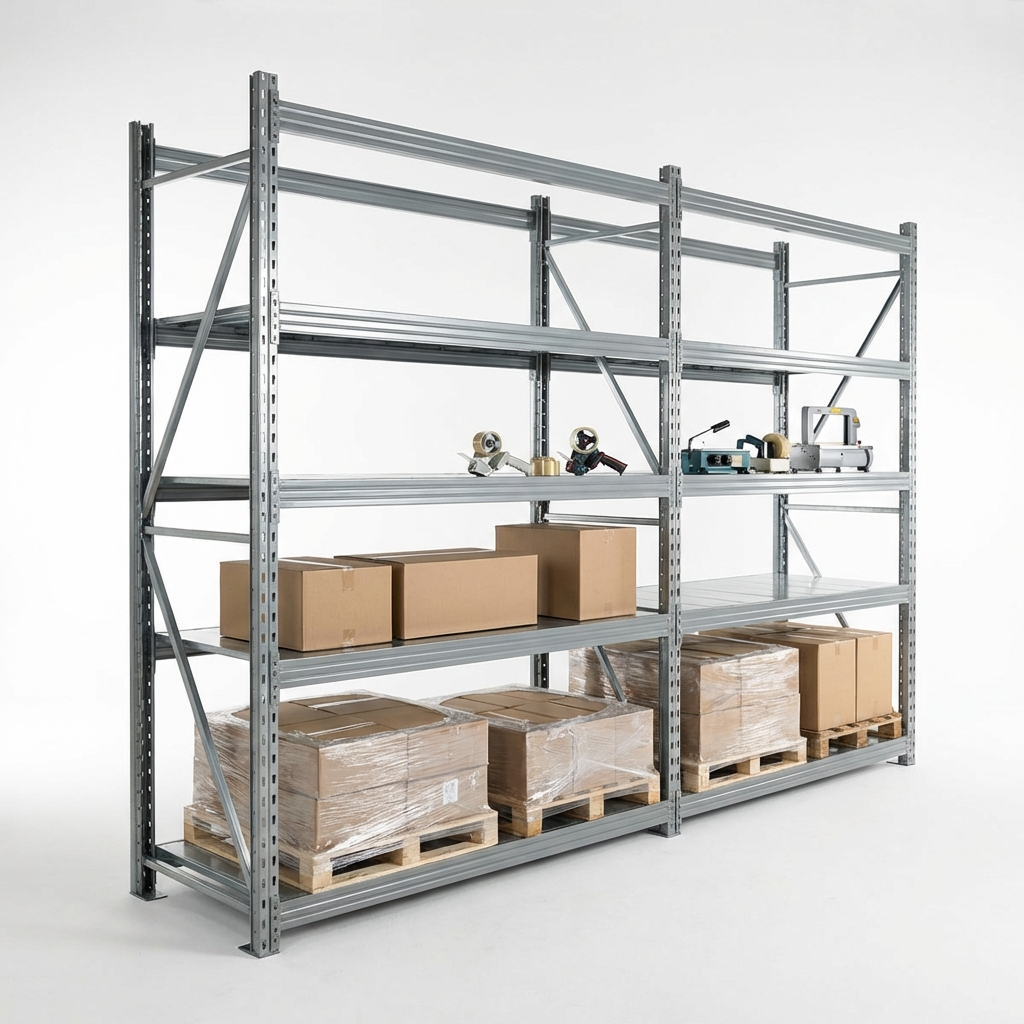
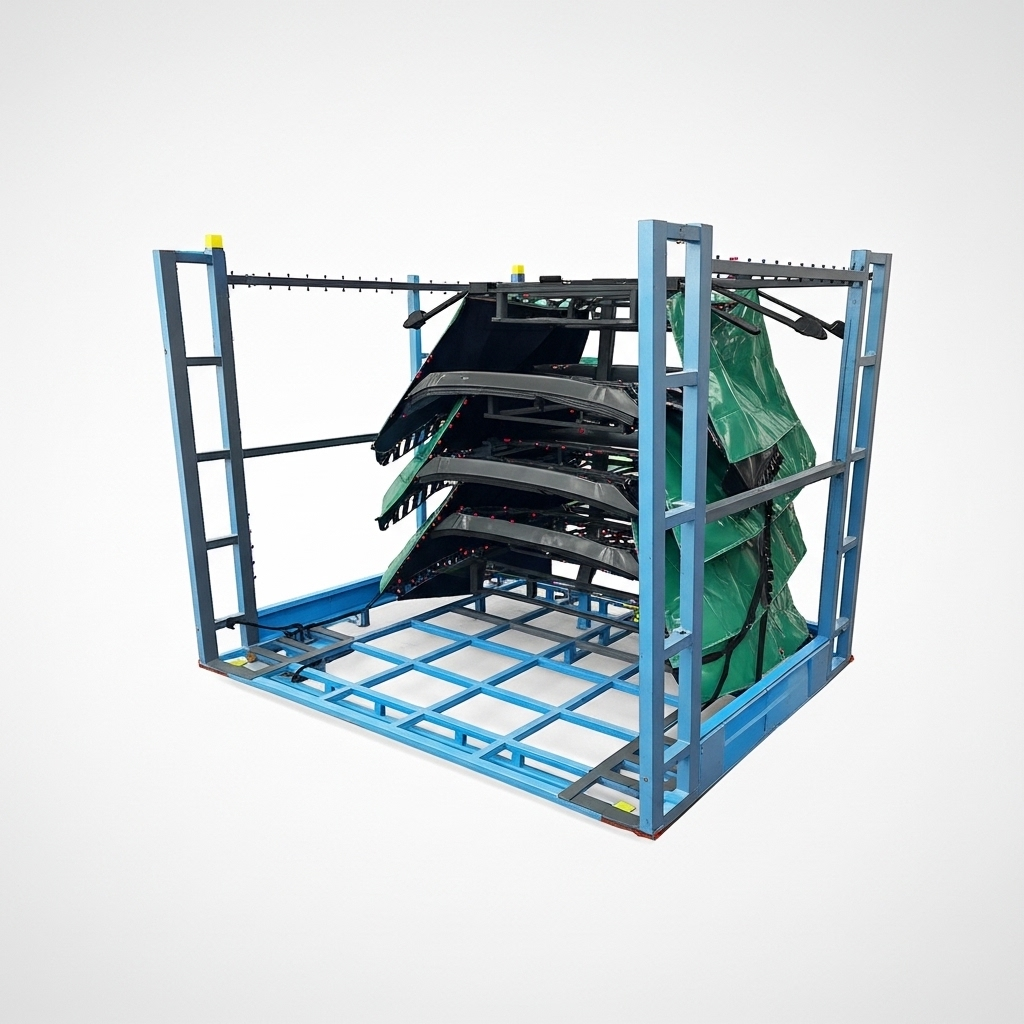
feat: Update product images and names for steel and plastic items, reorder material types, and add new steel rack assets.

diff --git a/products.html b/products.html
@@ -99,7 +99,7 @@
             <div class="section-header animate-on-scroll">
                 <h1 class="section-title">หมวดหมู่สินค้าทั้งหมด</h1>
                 <p class="section-subtitle">
-                    ครอบคลุมวัสดุหลากหลายประเภท เช่น กระดาษ เหล็ก ไม้ และพลาสติก
+                    ครอบคลุมวัสดุหลากหลายประเภท เช่น กระดาษ ไม้ เหล็ก และพลาสติก
                 </p>
             </div>
         </div>
@@ -245,19 +245,19 @@
 
                 <div class="product-card animate-on-scroll">
                     <div class="product-image">
-                        <img src="scr/assets/steel_pallet.png" alt="Steel Pallet" loading="lazy" />
+                        <img src="scr/assets/steel_rack2.png" alt="Steel Rack2" loading="lazy" />
                     </div>
                     <div class="product-info">
-                        <h3 class="product-name">Steel Pallet</h3>
+                        <h3 class="product-name">Steel Rack</h3>
                     </div>
                 </div>
 
                 <div class="product-card animate-on-scroll">
                     <div class="product-image">
-                        <img src="scr/assets/steel_container.png" alt="Steel Container" loading="lazy" />
+                        <img src="scr/assets/steel_rack3.png" alt="Steel Rack3" loading="lazy" />
                     </div>
                     <div class="product-info">
-                        <h3 class="product-name">Steel Container</h3>
+                        <h3 class="product-name">Steel Rack</h3>
                     </div>
                 </div>
             </div>
@@ -298,10 +298,10 @@
 
                 <div class="product-card animate-on-scroll">
                     <div class="product-image">
-                        <img src="scr/assets/plastic_tray.png" alt="Plastic Tray" loading="lazy" />
+                        <img src="scr/assets/plastic_pallet.png" alt="Plastic Pallet" loading="lazy" />
                     </div>
                     <div class="product-info">
-                        <h3 class="product-name">Plastic Tray</h3>
+                        <h3 class="product-name">Plastic Pallet</h3>
                     </div>
                 </div>
             </div>
